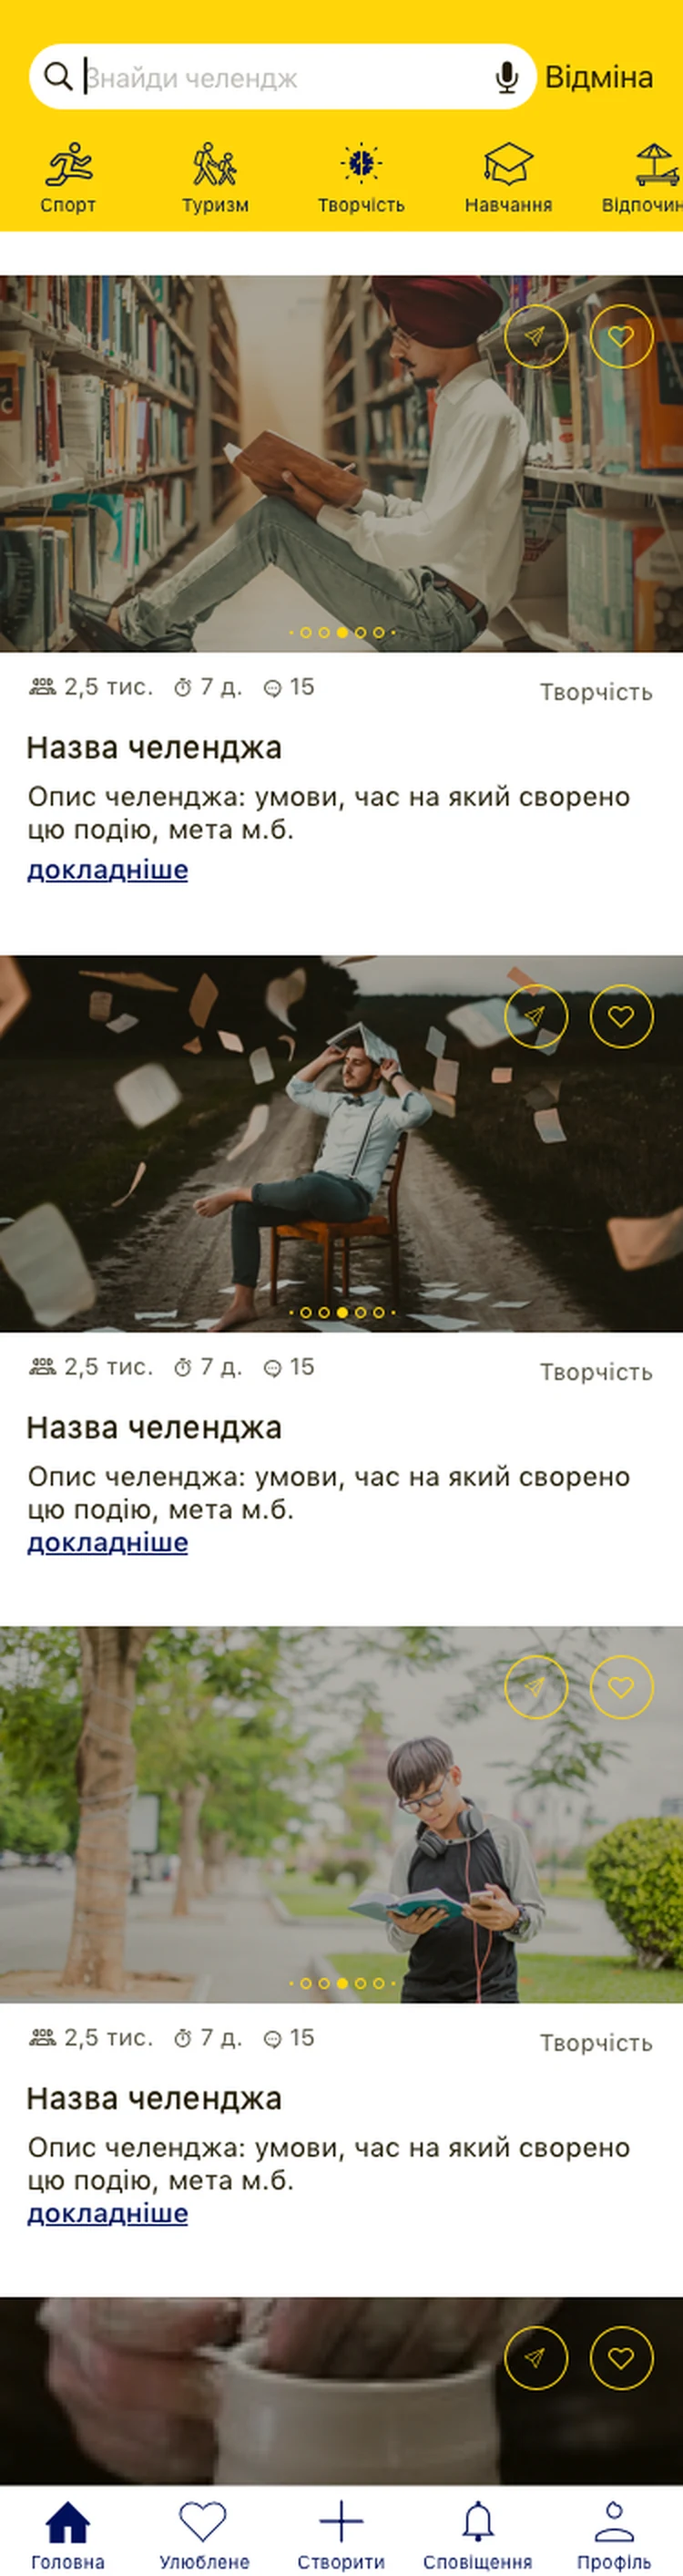
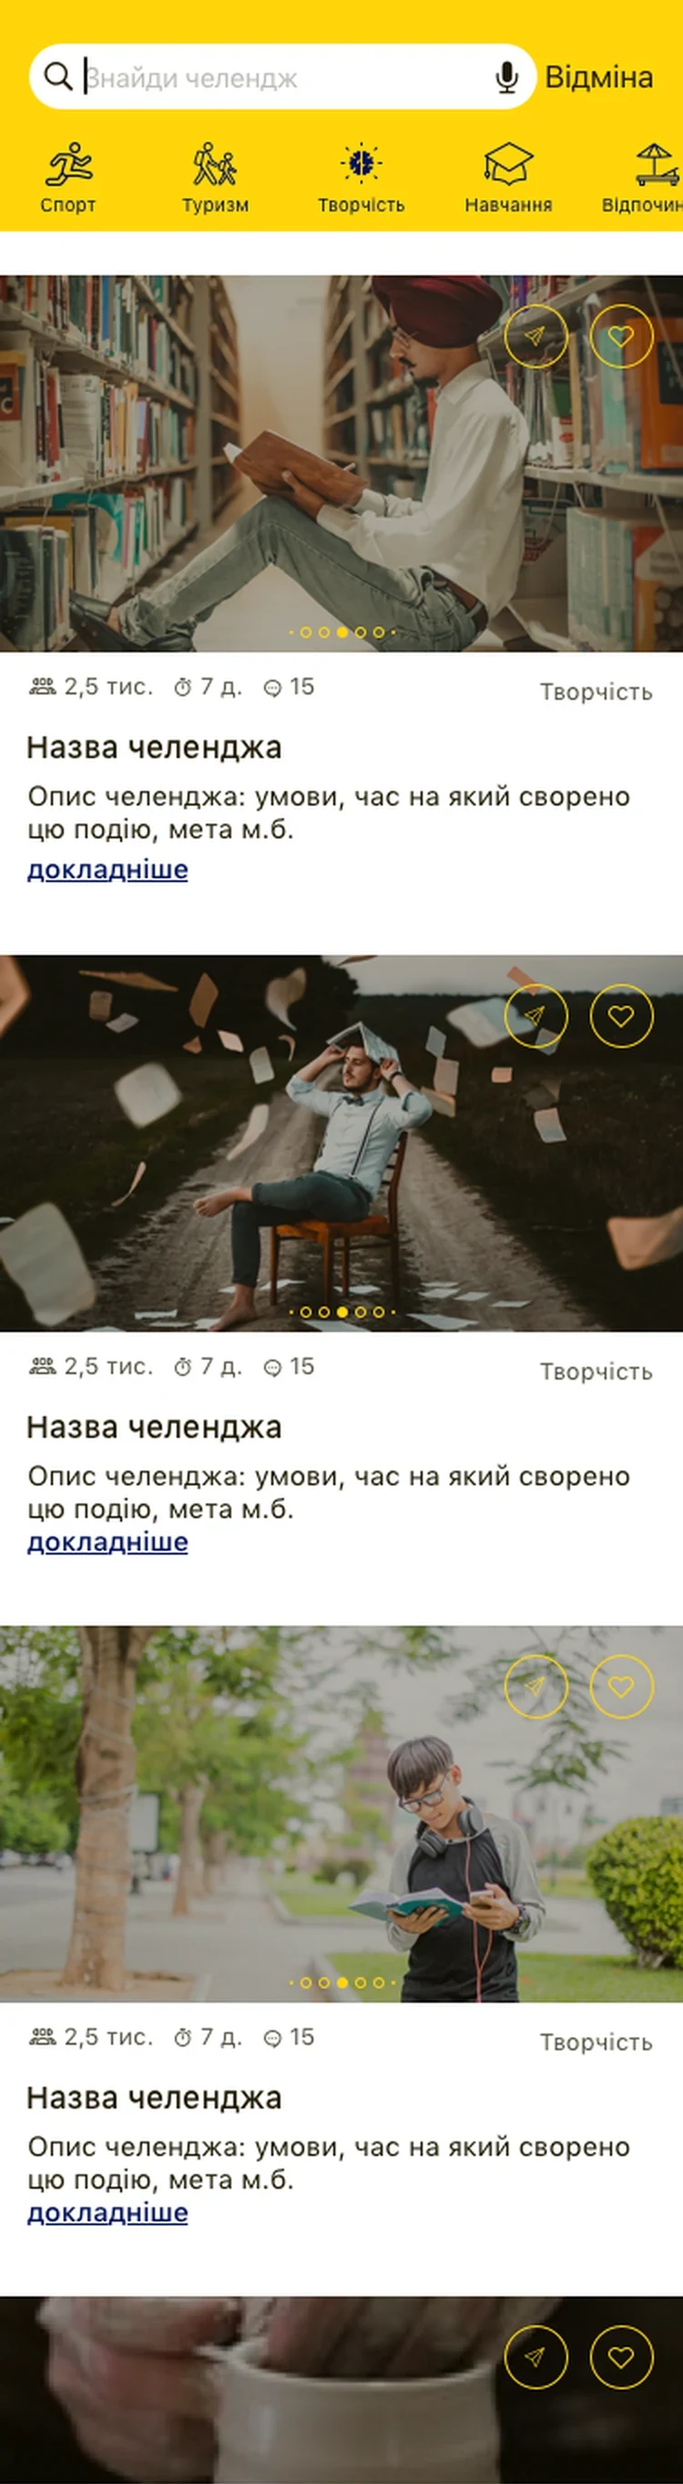
School phones: fine outline frame in place of the heavy black bezel; tab bar fixed while the long screens scroll

diff --git a/school.html b/school.html
@@ -56,24 +56,25 @@ h1{font-size:clamp(36px,5.6vw,80px);line-height:1.02;letter-spacing:-.045em;max-
 /* project colours (school.md): navy on yellow 12.2:1, navy on white 17.2:1 */
 :root{--yellow:#FFD60A;--navy:#001059;--cream:#FFF6CC}
 
-/* modern phone frame: thin black bezel, titanium rim, side buttons, Dynamic Island; sizes follow the phone width */
-.phone{container-type:inline-size;width:var(--pw,100%);margin:0;position:relative}
-.phone .body{position:relative;padding:3.4cqw;border-radius:16cqw;background:#0b0b0d;
-  box-shadow:0 0 0 .55cqw #d9d8d4,0 0 0 .9cqw #a9a8a3,0 0 0 1.05cqw rgba(0,0,0,.25),
-    -2px 3px 6px rgba(0,16,89,.1),-12px 20px 40px rgba(0,16,89,.16),-30px 50px 90px rgba(0,16,89,.14)}
-.phone .body::before,.phone .body::after{content:"";position:absolute;width:1.1cqw;border-radius:1cqw;background:linear-gradient(90deg,#8f8e8a,#d9d8d4)}
-.phone .body::before{left:-1.9cqw;top:24%;height:8%;box-shadow:0 13cqw 0 #b9b8b4,0 26cqw 0 #b9b8b4}
-.phone .body::after{right:-1.9cqw;top:32%;height:14%;background:linear-gradient(270deg,#8f8e8a,#d9d8d4)}
-.screen{position:relative;border-radius:12.8cqw;overflow:hidden;background:#fff;isolation:isolate}
+/* phone as a fine outline (her request, 2026-10-10): a hairline body in the tile's colour, thin side buttons, the screen floating inside */
+.phone{container-type:inline-size;width:var(--pw,100%);margin:0;position:relative;--line:var(--navy)}
+.phone .body{position:relative;padding:3cqw;border-radius:15.5cqw;border:max(1px,.55cqw) solid var(--line);background:#fff}
+.phone .body::before,.phone .body::after{content:"";position:absolute;width:max(1px,.55cqw);border-radius:1cqw;background:var(--line)}
+.phone .body::before{left:-2.4cqw;top:22%;height:7%;box-shadow:0 12cqw 0 var(--line),0 24cqw 0 var(--line)}
+.phone .body::after{right:-2.4cqw;top:30%;height:12%}
+.well.n .phone{--line:rgba(255,255,255,.55)}
+.screen{position:relative;border-radius:12.6cqw;overflow:hidden;background:#fff;isolation:isolate;box-shadow:0 1px 2px rgba(0,16,89,.08),0 18px 40px -12px rgba(0,16,89,.28)}
 .sb{position:relative;height:13.6cqw;display:flex;align-items:center;justify-content:space-between;padding:1.6cqw 7.5cqw 0 10.5cqw;font:600 4.3cqw/1 -apple-system,"SF Pro Text",var(--sans);letter-spacing:-.01em;background:var(--yellow);color:var(--navy)}
 .sb.w{background:#fff;color:#000}
 .sb svg{width:19cqw;height:auto}
 .island{position:absolute;left:50%;top:3cqw;width:31cqw;height:9.2cqw;transform:translateX(-50%);background:#000;border-radius:9cqw}
 .vp{position:relative;overflow:hidden;aspect-ratio:375/var(--h,647)}
 .vp img{width:100%;height:auto}
+/* the tab bar stays put while the screen scrolls */
+.vp .bar{position:absolute;left:0;right:0;bottom:0;z-index:1}
 /* the long screens scroll slowly while they are on screen */
-.feed .vp img{animation:feed var(--t,16s) ease-in-out 1s infinite alternate;animation-play-state:paused}
-.play .feed .vp img{animation-play-state:running}
+.feed .vp img:not(.bar){animation:feed var(--t,16s) ease-in-out 1s infinite alternate;animation-play-state:paused}
+.play .feed .vp img:not(.bar){animation-play-state:running}
 @keyframes feed{0%,12%{transform:translateY(0)}88%,100%{transform:translateY(var(--to))}}
 
 /* reveal on scroll (only with JS) */
@@ -269,9 +270,9 @@ footer .wrap{display:flex;justify-content:space-between;gap:16px;flex-wrap:wrap}
         <p>Pupils open a feed of challenges from classmates and teachers, sorted by sport, travel, creativity and study. Each one runs for a set time, like “English every day”, and turns a small task into a habit.</p>
       </div>
       <div class="duo">
-        <div class="well y rv"><div class="phone feed" style="--to:-54.2%"><div class="body"><div class="screen">
+        <div class="well y rv"><div class="phone feed" style="--to:-56.2%"><div class="body"><div class="screen">
           <div class="sb" aria-hidden="true"><span>9:41</span><i class="island"></i><svg><use href="#sbi"/></svg></div>
-          <div class="vp"><img src="assets/work/school/screen-p-home.webp" alt="Pupil home feed: a search field, category icons for sport, travel, creativity, study and rest, and challenge cards with photos, likes and a short description." width="750" height="2826" loading="lazy"></div>
+          <div class="vp"><img src="assets/work/school/screen-p-home.webp" alt="Pupil home feed: a search field, category icons for sport, travel, creativity, study and rest, and challenge cards with photos, likes and a short description." width="750" height="2726" loading="lazy"><img class="bar" src="assets/work/school/screen-p-home-bar.webp" alt="" width="750" height="100" loading="lazy"></div>
         </div></div></div></div>
         <div class="well n rv" style="--d:.15s"><div class="phone"><div class="body"><div class="screen">
           <div class="sb" aria-hidden="true"><span>9:41</span><i class="island"></i><svg><use href="#sbi"/></svg></div>
@@ -291,9 +292,9 @@ footer .wrap{display:flex;justify-content:space-between;gap:16px;flex-wrap:wrap}
           <div class="sb" aria-hidden="true"><span>9:41</span><i class="island"></i><svg><use href="#sbi"/></svg></div>
           <div class="vp"><img src="assets/work/school/screen-t-create-lesson.webp" alt="New lesson: a large photo, tabs for gallery, photos and video, a grid of images to choose from and a “Publish” button." width="750" height="1294" loading="lazy"></div>
         </div></div></div></div>
-        <div class="well y rv" style="--d:.15s"><div class="phone feed" style="--to:-59.7%;--t:18s"><div class="body"><div class="screen">
+        <div class="well y rv" style="--d:.15s"><div class="phone feed" style="--to:-61.6%;--t:18s"><div class="body"><div class="screen">
           <div class="sb" aria-hidden="true"><span>9:41</span><i class="island"></i><svg><use href="#sbi"/></svg></div>
-          <div class="vp"><img src="assets/work/school/screen-t-lesson.webp" alt="A lesson as pupils see it: the teacher, a photo, the topic, the teacher's notes with files to download, and the homework under it." width="750" height="3210" loading="lazy"></div>
+          <div class="vp"><img src="assets/work/school/screen-t-lesson.webp" alt="A lesson as pupils see it: the teacher, a photo, the topic, the teacher's notes with files to download, and the homework under it." width="750" height="3110" loading="lazy"><img class="bar" src="assets/work/school/screen-t-lesson-bar.webp" alt="" width="750" height="100" loading="lazy"></div>
         </div></div></div></div>
       </div>
     </div>

diff --git a/school.md b/school.md
@@ -29,9 +29,9 @@ Sources: her Behance case [IOS App_School](https://www.behance.net/gallery/15035
 - **Solution:** An app that works like a social network. Pupils create challenges that last for a while and help them build good habits; teachers control the content and organise the learning.
 
 ## Sections, in order
-1. **First block** — rebuilt in HTML and CSS after her Figma frame 913:70584: a yellow band, a large navy circle at the top right, a half navy, half yellow circle on the left edge, "UI/UX design concept", the "iOS App" pill, "School" and "Mobile service for remote learning and development of good habits" (in two lines, broken after "learning", as in Figma; 2026-10-10, her request). The old iPhone Xs mockup is replaced by a modern phone frame (her request, 2026-10-10: "not a mockup but a frame"), built in CSS: a thin black bezel, a light titanium rim, side buttons, a Dynamic Island and a new status bar (9:41). The frame shows the onboarding screen ("Я вчитель" / "Я учень"). The phone rises in once when the page opens.
+1. **First block** — rebuilt in HTML and CSS after her Figma frame 913:70584: a yellow band, a large navy circle at the top right, a half navy, half yellow circle on the left edge, "UI/UX design concept", the "iOS App" pill, "School" and "Mobile service for remote learning and development of good habits" (in two lines, broken after "learning", as in Figma; 2026-10-10, her request). The old iPhone Xs mockup is replaced by a phone drawn as a fine outline (her request, 2026-10-10: "not a mockup but a frame"; the first heavy black-bezel version was too coarse for the site): a white body with a hairline edge in the tile's colour (navy on light grounds, translucent white on navy), thin side buttons, the screen floating inside with a soft navy shadow, a Dynamic Island and a new status bar (9:41). The frame shows the onboarding screen ("Я вчитель" / "Я учень"). The phone rises in once when the page opens.
 2. **About / Problem / Goal / Solution.** (The Process row was removed 2026-10-10, her request.)
-3. **In use** — five groups, each a photo, a short text and two screens. Layout (2026-10-10, her request): group 1, wide photo, the text on the photo's left edge, the phones below on the right; groups 2 and 4, wide photo, the phones on the left with the text beside them on the right; groups 3 and 5, the text on the left and the tall photo (4:5) on the right, its top on the photo's top, the phones below on the right (swapped 2026-10-10, her request). Every edge sits on one 12-column grid (2026-10-10, her request): each phone tile spans 4 columns with the same gap as the grid, so the photos and text line up with the tile edges of the block before. Larger gaps around the text (2026-10-10, her request): the rows of photo, text and phones sit up to 128 px apart, and text beside phones or a photo keeps up to 48 px more distance from them. The photos are AI images generated with Figma AI (gpt-image-2.5, her Pro plan, 2026-10-10), not real people, in the project's warm yellow and navy. The screens are her Sketch exports from Drive, the old 2020 status bar cropped off and shown at 2× in the modern frame. Phones rise in as they scroll into view; the two long screens (home feed, lesson) scroll slowly inside the frame while visible. With reduced motion there is no movement.
+3. **In use** — five groups, each a photo, a short text and two screens. Layout (2026-10-10, her request): group 1, wide photo, the text on the photo's left edge, the phones below on the right; groups 2 and 4, wide photo, the phones on the left with the text beside them on the right; groups 3 and 5, the text on the left and the tall photo (4:5) on the right, its top on the photo's top, the phones below on the right (swapped 2026-10-10, her request). Every edge sits on one 12-column grid (2026-10-10, her request): each phone tile spans 4 columns with the same gap as the grid, so the photos and text line up with the tile edges of the block before. Larger gaps around the text (2026-10-10, her request): the rows of photo, text and phones sit up to 128 px apart, and text beside phones or a photo keeps up to 48 px more distance from them. The photos are AI images generated with Figma AI (gpt-image-2.5, her Pro plan, 2026-10-10), not real people, in the project's warm yellow and navy. The screens are her Sketch exports from Drive, the old 2020 status bar cropped off and shown at 2× in the modern frame. Phones rise in as they scroll into view; the two long screens (home feed, lesson) scroll slowly inside the frame while visible, with the bottom tab bar fixed in place: it is cut off the screen image into its own file (`screen-p-home-bar.webp`, `screen-t-lesson-bar.webp`) and laid over the bottom of the screen (2026-10-10, her request). With reduced motion there is no movement.
    1. *Photo:* two children at home on the floor with books, laughing at a phone (wide, 1536 × 864, `kids-home`). *Text:* **Challenges, not another video call.** Pupils open a feed of challenges from classmates and teachers, sorted by sport, travel, creativity and study. Each one runs for a set time, like "English every day", and turns a small task into a habit. *Screens:* home feed (scrolls), challenge.
    2. *Photo:* a teacher at her kitchen table in the evening, preparing a lesson with books and a phone (square, 1024, `teacher-prep`; shown full width, cropped to 16:9, 2026-10-10, her request). *Text:* **A lesson in three steps.** The teacher picks a date, adds photos, video and files, and publishes. The class was chosen at sign-up, so the lesson reaches the right pupils, and the homework sits right under it. *Screens:* new lesson, lesson (scrolls).
    3. *Photo:* a boy running down the hallway to show his mother something on a phone (portrait, 960 × 1280, `kid-runs`). *Text:* **Homework that answers back.** Pupils send homework with a comment and files. A notification tells them when the teacher has commented on it or graded it, so nobody waits for a parent to forward a message. *Screens:* homework, notifications.
